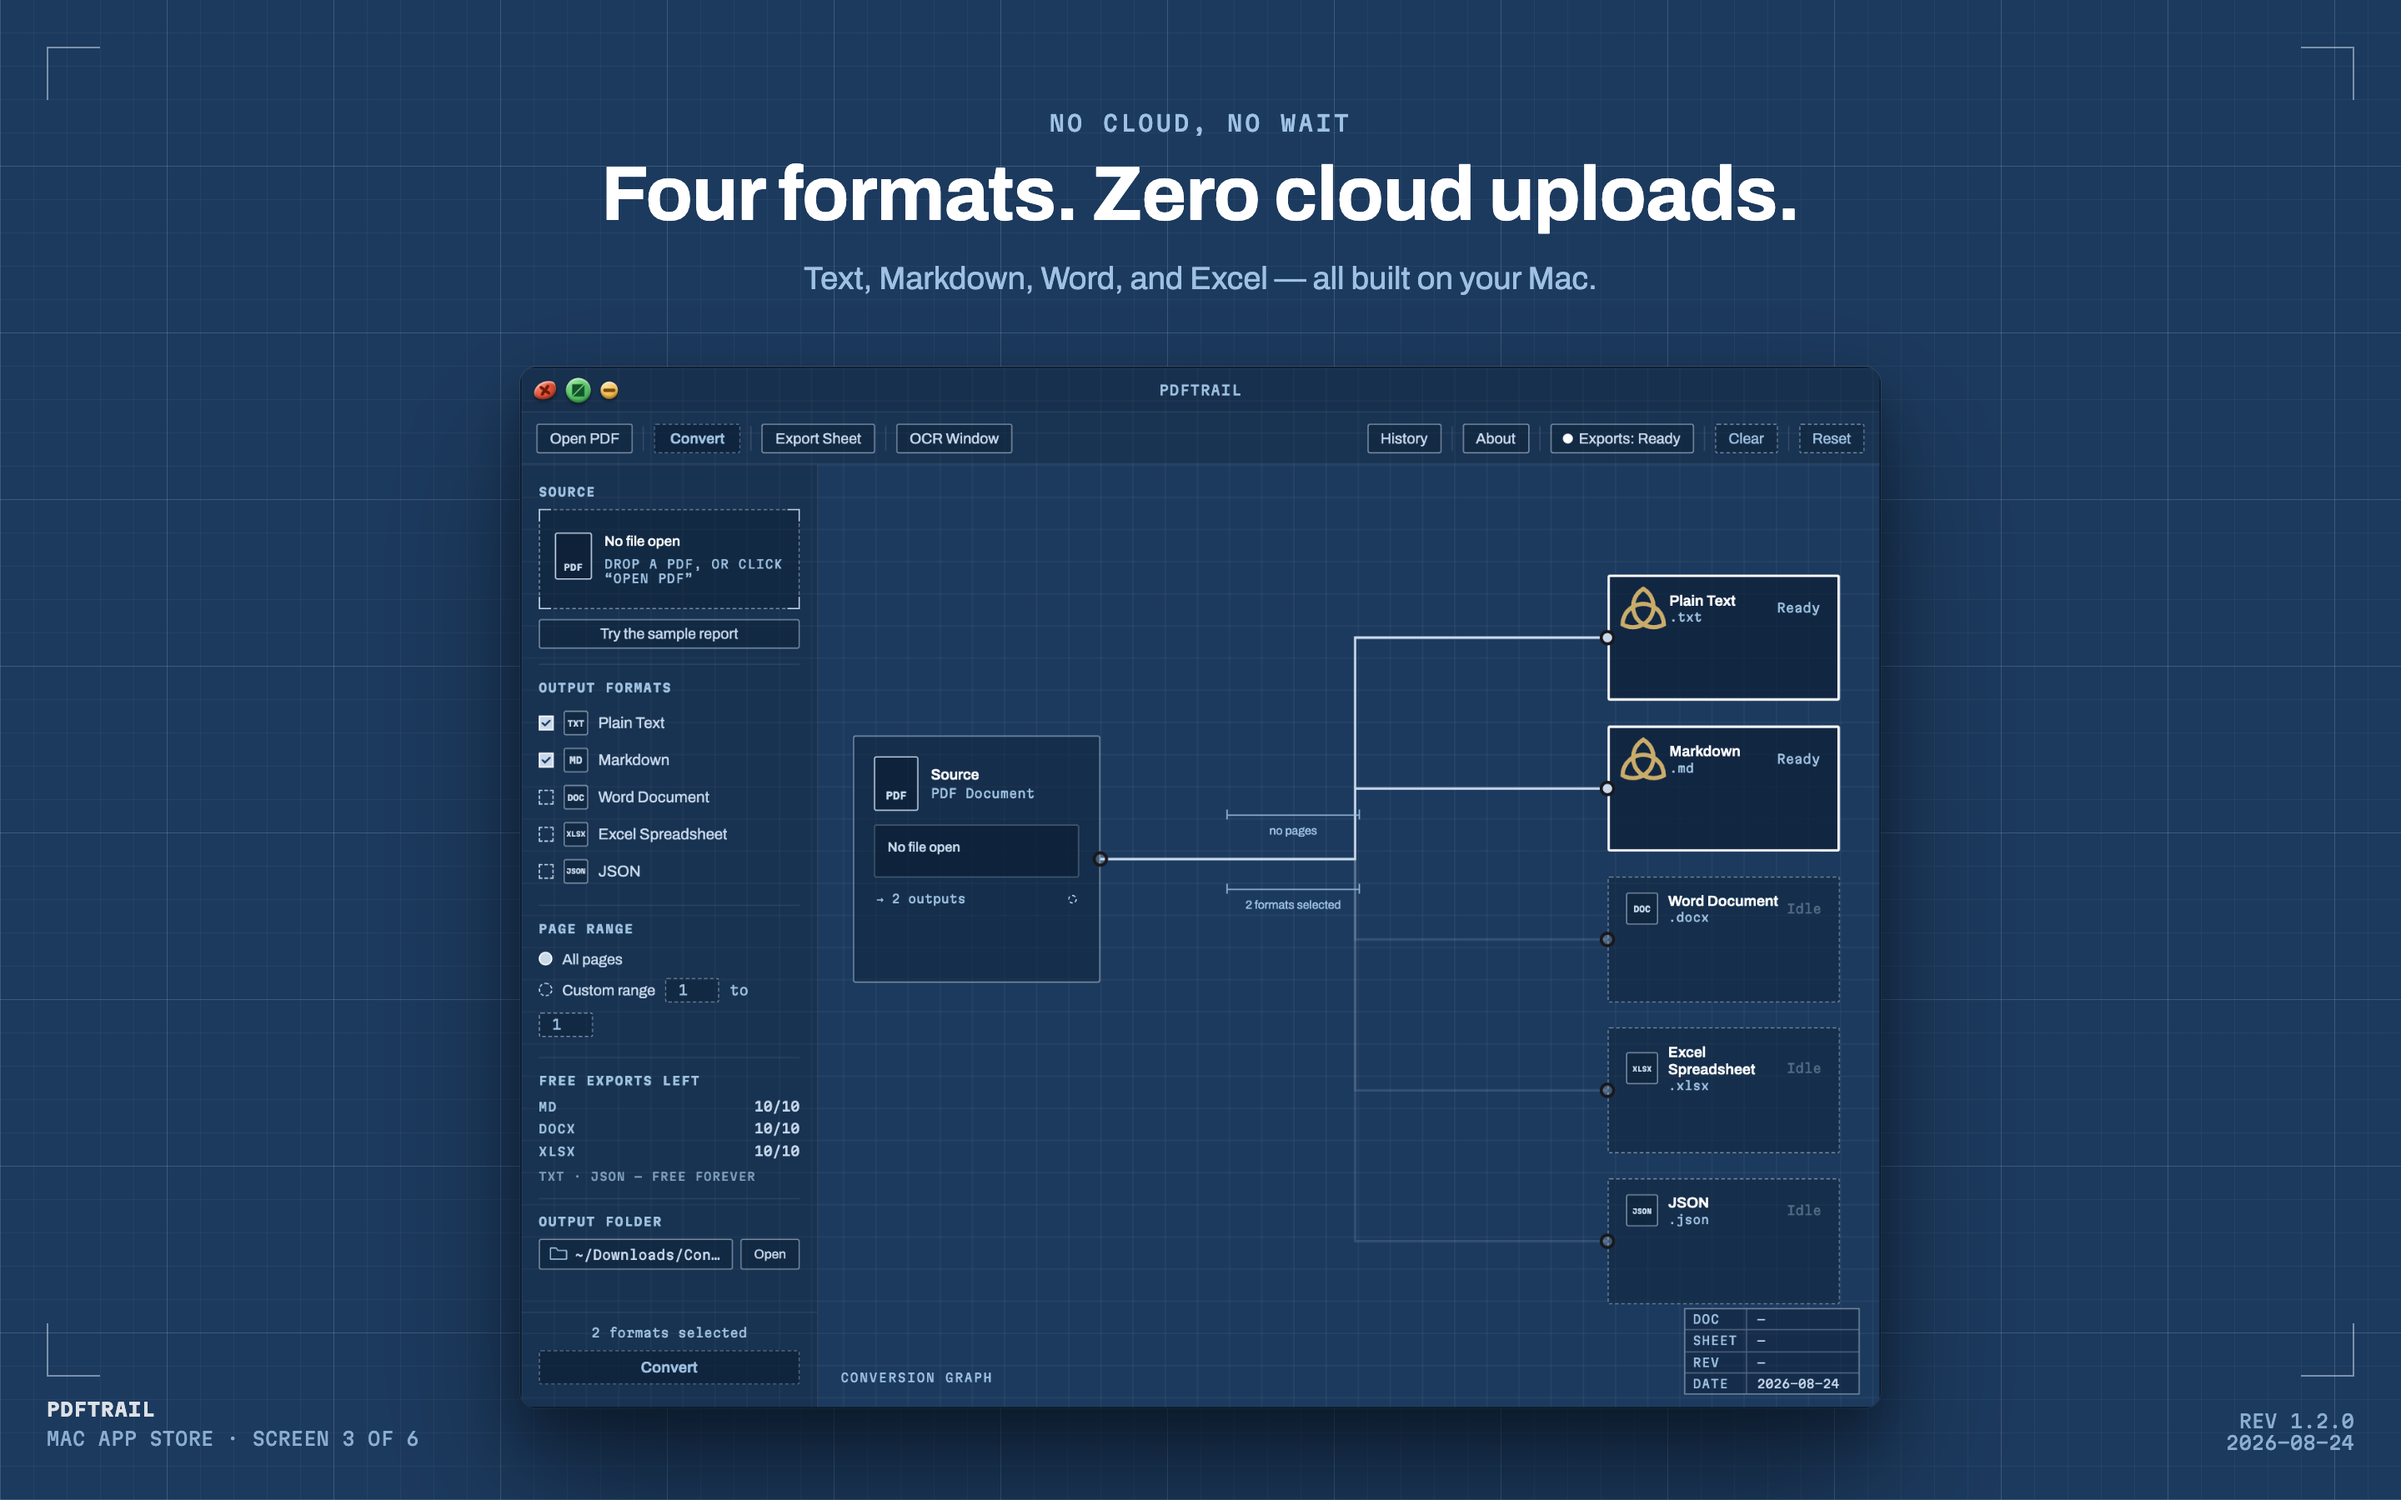
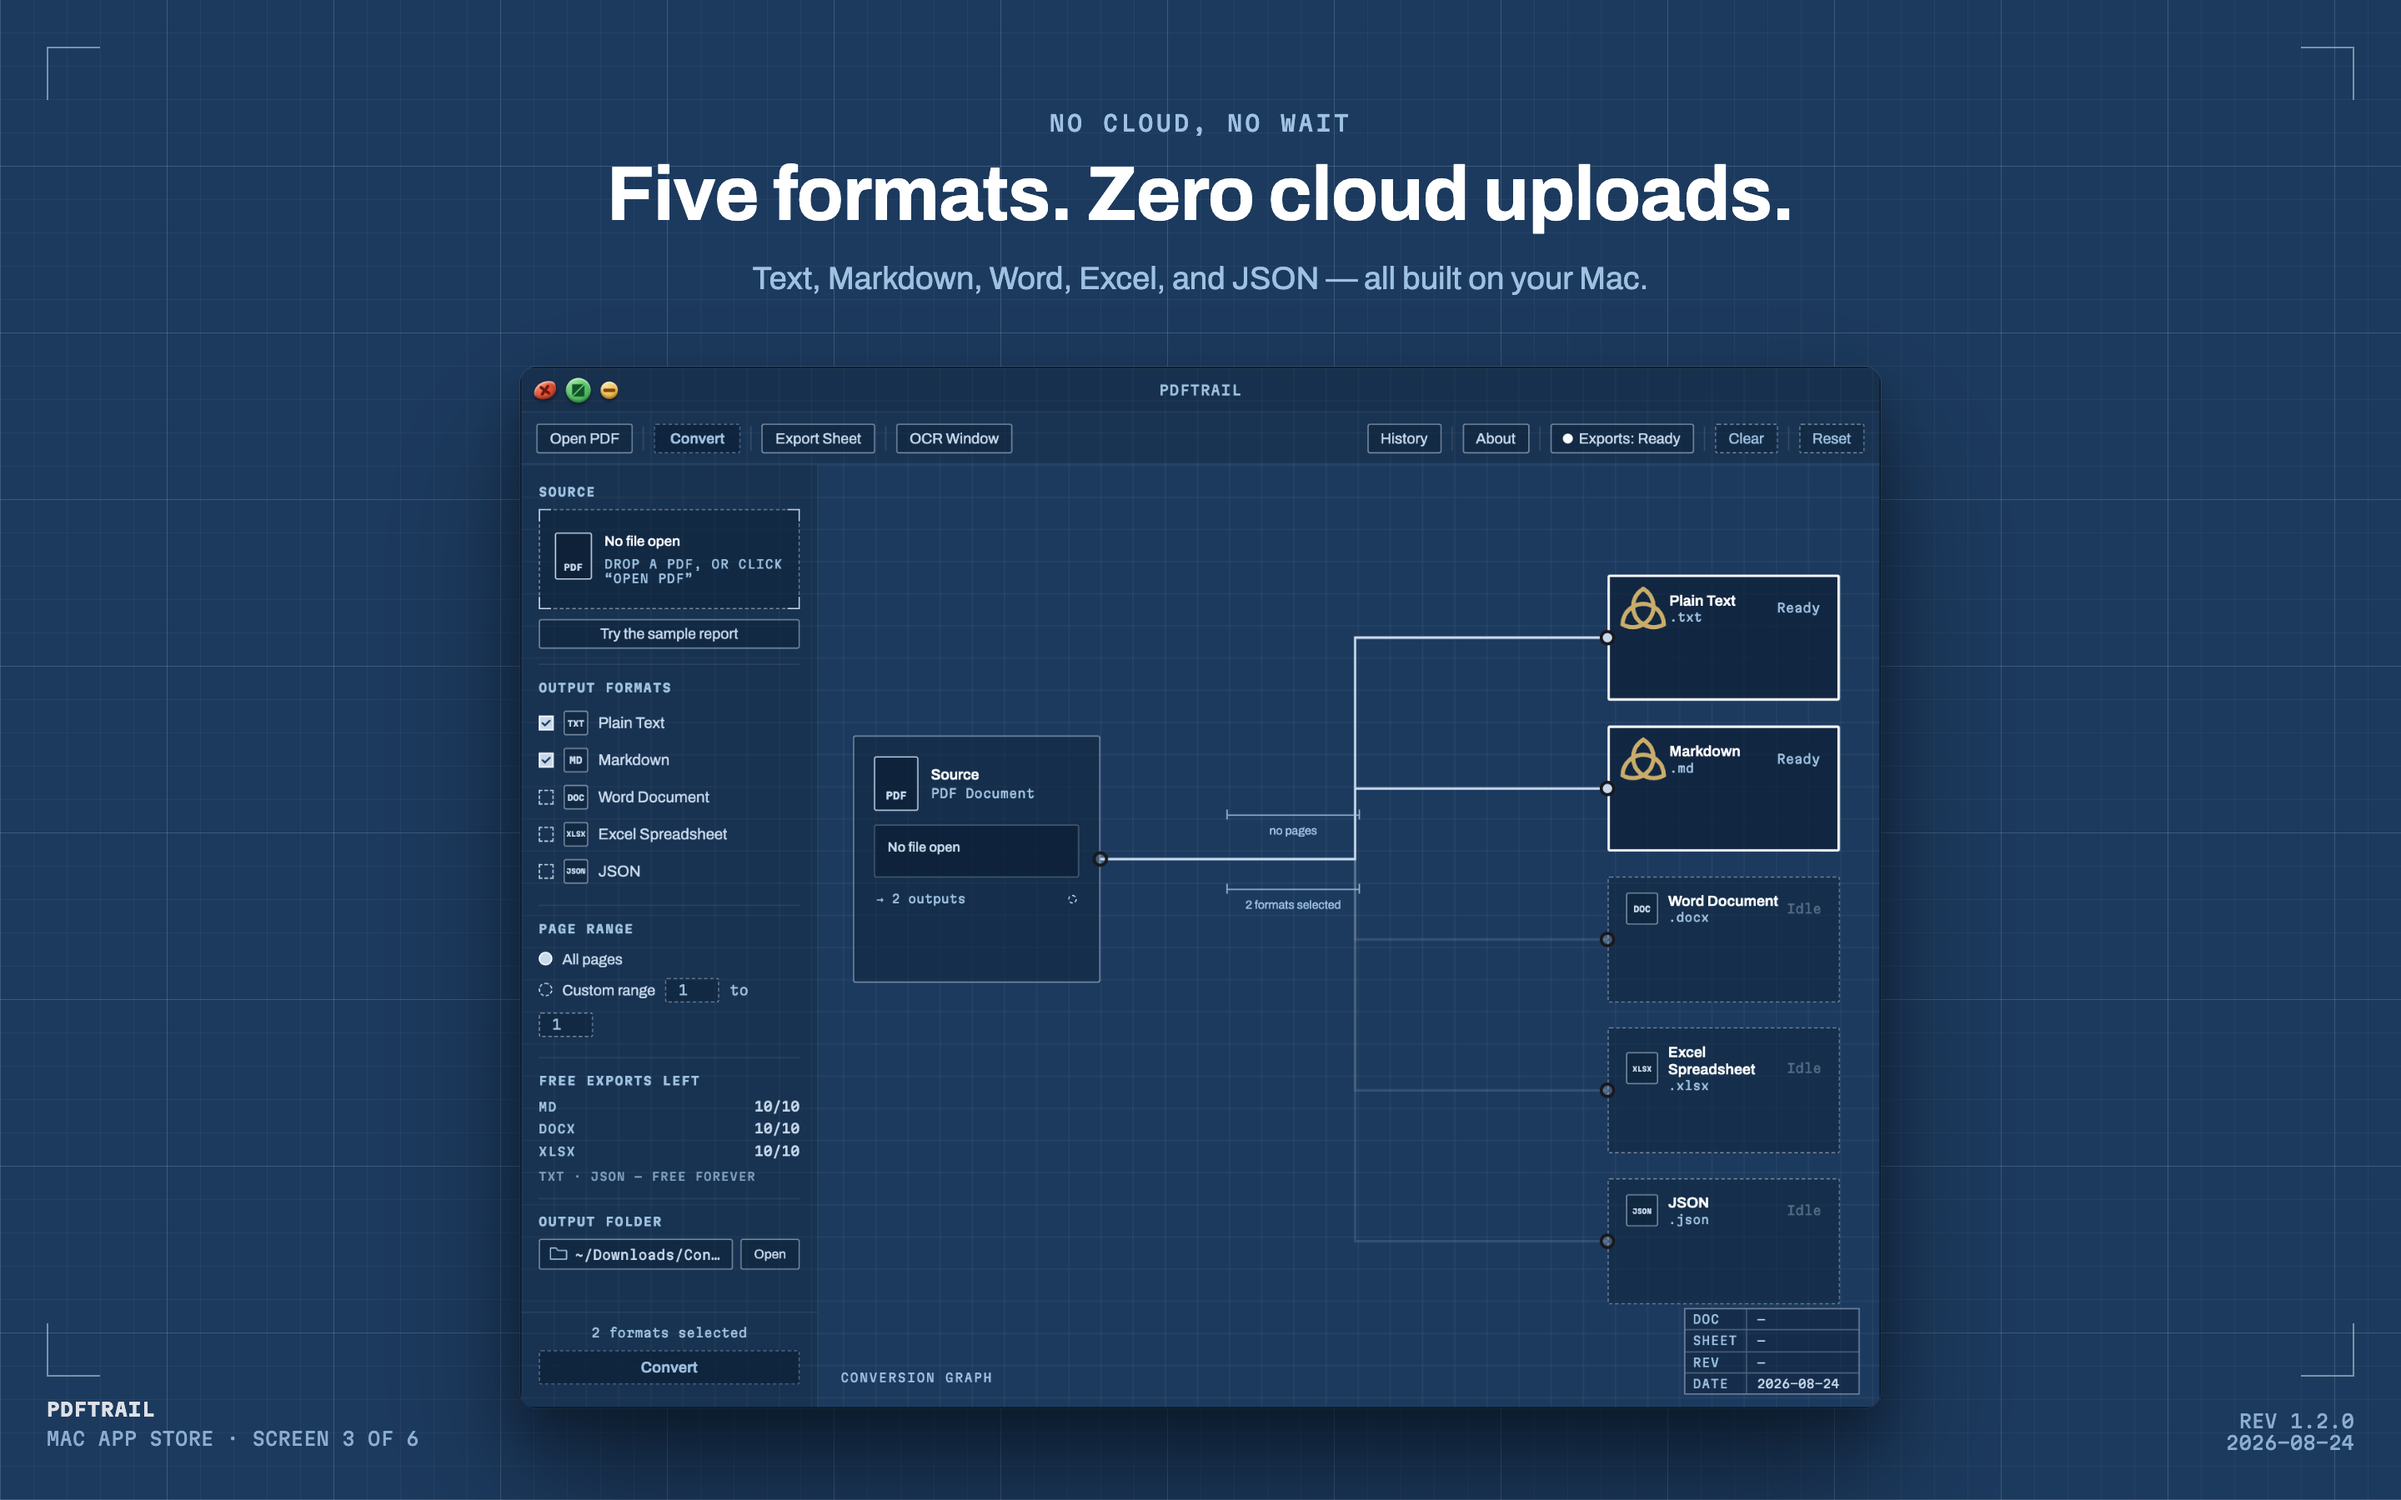
hotfix: five formats, not four — Detail 04 plate + caption (JSON was uncounted)

Changed region(s): [[0.25, 0.0933, 0.75, 0.2178]]

diff --git a/index.html b/index.html
@@ -666,9 +666,9 @@
         <div class="feature-card">
           <p class="plate-head"><span>Detail 04 &#183; Scanned PDFs</span><a class="full-link" href="/assets/screenshots/full/03_exports_ready.png">Full size</a></p>
           <div class="plate-img">
-            <img src="/assets/screenshots/web/03_exports_ready.jpg" width="1400" height="788" loading="lazy" alt="PDFTrail export panel listing Plain Text, Markdown, Word, and Excel formats, all built on the Mac with no cloud upload.">
+            <img src="/assets/screenshots/web/03_exports_ready.jpg" width="1400" height="788" loading="lazy" alt="PDFTrail export panel listing Plain Text, Markdown, Word, Excel, and JSON formats, all built on the Mac with no cloud upload.">
           </div>
-          <p class="cap">Text, Markdown, Word, and Excel &#8212; all built on your Mac. On-device OCR reads scanned pages and rebuilds the table.</p>
+          <p class="cap">Text, Markdown, Word, Excel, and JSON &#8212; all built on your Mac. On-device OCR reads scanned pages and rebuilds the table.</p>
         </div>
 
         <div class="feature-card">
